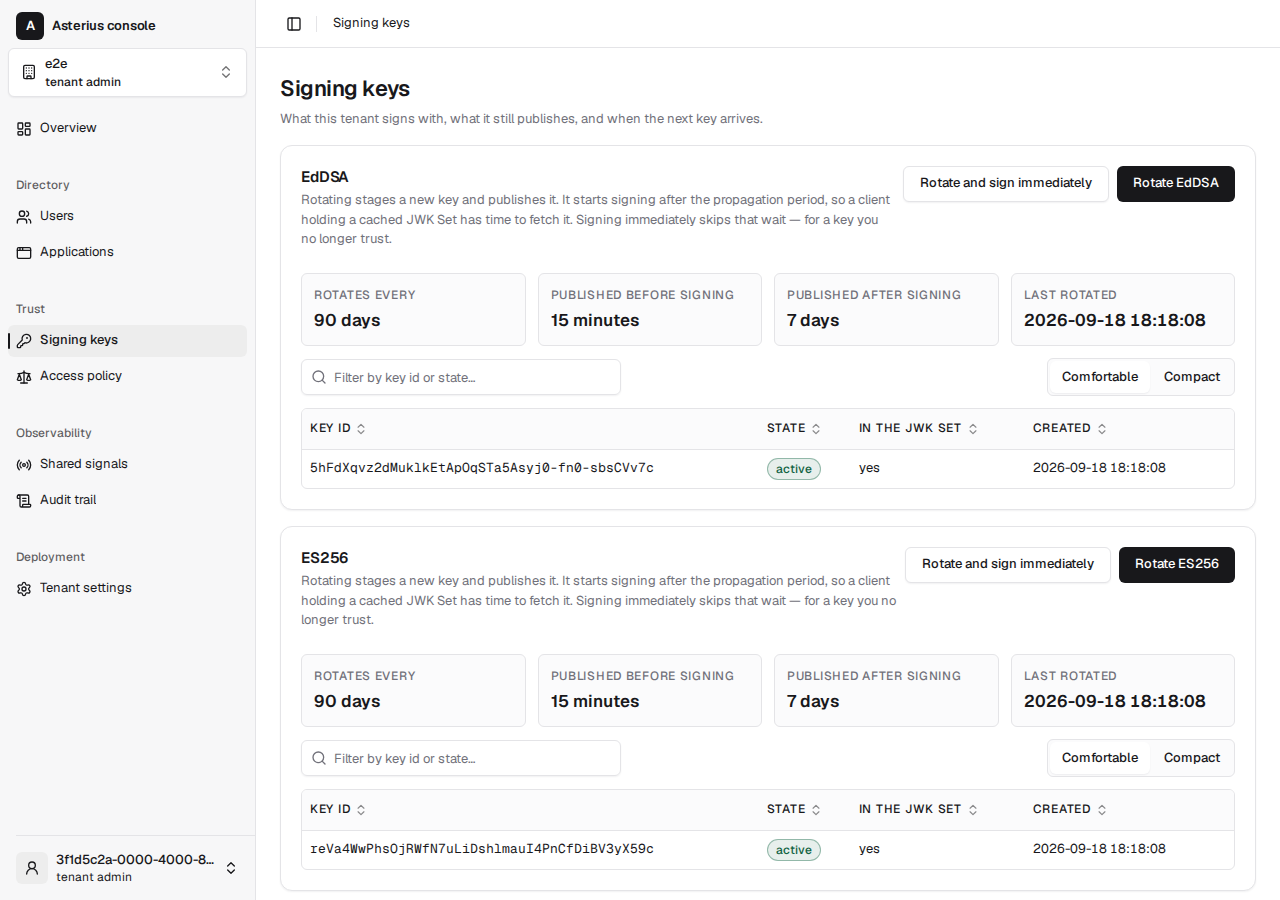
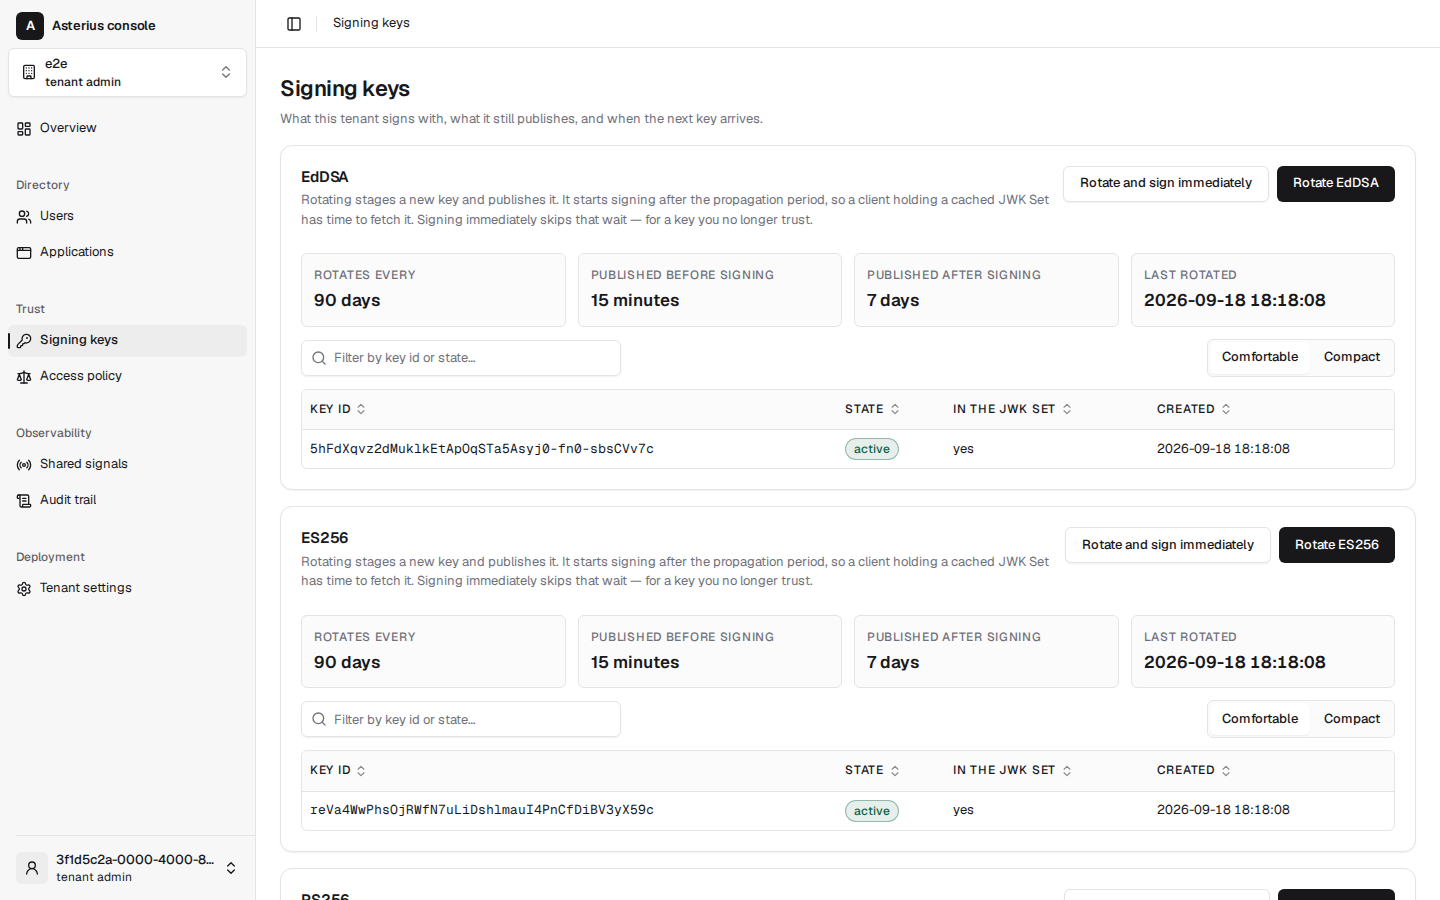
test(console): sweep assembled themes and layouts
Refs: ast-k7az.7

diff --git a/e2e/tests/console.spec.ts b/e2e/tests/console.spec.ts
@@ -243,6 +243,69 @@ test('the console screen has no accessibility violation', async ({ page }, testI
 });
 
 /**
+ * `ast-k7az.7`: the assembled console, rather than one representative screen.
+ *
+ * Individual tests below exercise each screen's behaviour. This matrix is the
+ * final visual guard: every destination is opened through the navigation and
+ * measured by axe after all of the redesign children have been assembled.
+ * Both palettes and both layout breakpoints matter because contrast and
+ * overflow defects can exist in only one member of that matrix.
+ */
+const ASSEMBLED_SCREENS = [
+  'Overview',
+  'Users',
+  'Applications',
+  'Signing keys',
+  'Shared signals',
+  'Audit trail',
+  'Access policy',
+  'Tenants',
+  'Tenant settings',
+] as const;
+
+for (const theme of ['light', 'dark'] as const) {
+  for (const width of [1440, 400] as const) {
+    test(`every screen passes axe in the ${theme} theme at ${width}px`, async ({ page }, testInfo) => {
+      test.setTimeout(120_000);
+      await page.setViewportSize({ width, height: 900 });
+      await page.addInitScript((selectedTheme) => {
+        window.localStorage.setItem('asterius.console.theme', selectedTheme);
+      }, theme);
+      await signInAsDeploymentAdmin(page);
+      await expect(page.locator('html')).toHaveClass(theme === 'dark' ? /dark/ : /^(?!.*dark)/);
+
+      const violations: { screen: string; violations: unknown[] }[] = [];
+      for (const screen of ASSEMBLED_SCREENS) {
+        if (screen !== 'Overview') {
+          if (width === 400) {
+            await page.getByRole('button', { name: 'Toggle Sidebar', exact: true }).click();
+          }
+          await page.getByRole('link', { name: screen, exact: true }).click();
+        }
+        await expect(page.getByRole('heading', { name: screen, exact: true }).first()).toBeVisible();
+        await page.waitForLoadState('networkidle');
+        expect(
+          await page.evaluate(() => document.documentElement.scrollWidth),
+          `${screen} widened the ${width}px viewport`,
+        ).toBeLessThanOrEqual(width);
+        const result = await new AxeBuilder({ page })
+          .withTags(['wcag2a', 'wcag2aa', 'wcag21a', 'wcag21aa'])
+          .analyze();
+        if (result.violations.length > 0) {
+          violations.push({ screen, violations: result.violations });
+        }
+      }
+
+      await testInfo.attach(`axe-${theme}-${width}`, {
+        body: JSON.stringify(violations, null, 2),
+        contentType: 'application/json',
+      });
+      expect(violations).toEqual([]);
+    });
+  }
+}
+
+/**
  * Walks the navigation to the tenant settings screen (`ast-bfn`).
  *
  * By its link and not by a fragment typed into the address bar: the criterion

diff --git a/e2e/tests/console-shots.spec.ts b/e2e/tests/console-shots.spec.ts
@@ -5,7 +5,8 @@
  * written to `docs/console/`, so that a redesign can be reviewed as what it is
  * — a change to what people see — rather than as a diff of class names. The
  * pair it produces is what the ticket asks for: the same eight screens before
- * the migration and after it, taken by the same browser at the same size.
+ * the migration and after it, taken by the same browser at the same size. Set
+ * `E2E_SHOTS_THEME=dark` for the matching dark-theme series.
  *
  * # Why it does not run with the sweep
  *
@@ -32,8 +33,19 @@ import { expect, test } from '@playwright/test';
 import { signIn, signInAsDeploymentAdmin } from '../src/console.js';
 
 const DIRECTORY = process.env.E2E_SHOTS;
+const THEME = process.env.E2E_SHOTS_THEME ?? 'light';
 
 test.skip(DIRECTORY === undefined, 'set E2E_SHOTS to a directory to take the pictures');
+
+if (THEME !== 'light' && THEME !== 'dark') {
+  throw new Error('E2E_SHOTS_THEME must be either light or dark');
+}
+
+async function prepareTheme(page: Parameters<typeof signIn>[0]): Promise<void> {
+  await page.addInitScript((theme) => {
+    window.localStorage.setItem('asterius.console.theme', theme);
+  }, THEME);
+}
 
 /** The screens, as the navigation names them, and the file each one gets. */
 const SCREENS: readonly (readonly [string, string])[] = [
@@ -48,10 +60,12 @@ const SCREENS: readonly (readonly [string, string])[] = [
 ];
 
 test('every console screen is photographed', async ({ page }) => {
-  // Arrange: one signed-in shell, at a tablet-and-up width.
-  await page.setViewportSize({ width: 1280, height: 900 });
+  // Arrange: one signed-in shell, at the desktop sweep width.
+  await page.setViewportSize({ width: 1440, height: 900 });
+  await prepareTheme(page);
   await signIn(page);
   await expect(page.getByRole('heading', { name: 'Asterius console' })).toBeVisible();
+  await expect(page.locator('html')).toHaveClass(THEME === 'dark' ? /dark/ : /^(?!.*dark)/);
 
   for (const [label, file] of SCREENS) {
     // Act: through the navigation, which is how an administrator gets there.
@@ -76,7 +90,8 @@ test('every console screen is photographed', async ({ page }) => {
  */
 test('the tenants screen is photographed as the deployment administrator', async ({ page }) => {
   // Arrange
-  await page.setViewportSize({ width: 1280, height: 900 });
+  await page.setViewportSize({ width: 1440, height: 900 });
+  await prepareTheme(page);
   await signInAsDeploymentAdmin(page);
 
   // Act

diff --git a/docs/console/README.md b/docs/console/README.md
@@ -21,8 +21,9 @@ whole thing is served under did not change, which took measuring — see
 [Under the policy](#under-the-policy).
 
 The pictures beside it are the same eight screens before the migration
-(`before/`) and after it (`after/`), taken by the same browser at 1280×900 by
-`e2e/tests/console-shots.spec.ts`. A ninth, `after/tenants.png`, has no
+(`before/`) and after it (`after/`), taken by the same browser at 1440×900 by
+`e2e/tests/console-shots.spec.ts`. The matching dark-theme series lives under
+`after/dark/`. A ninth, `after/tenants.png`, has no
 "before": the screen did not exist until `ast-l5bl`, and it is photographed as
 the deployment administrator because nobody else is shown the link.
 
@@ -95,6 +96,15 @@ Two deliberate differences from `style.css`:
   traps, roving tab indexes, `aria-*` wiring, dismiss semantics. That is the
   half `ConfirmDialog` had to get right by hand, and the half every dialog
   after it would have had to get right again.
+
+### Visible copy names the task, not the standard
+
+Standards citations belong in source comments and architecture records, where
+they help maintainers preserve the protocol. They do not appear in headings,
+labels, help text or errors shown to an operator. The embedded-bundle test
+`the_embedded_bundle_cites_no_specification_at_the_reader` scans the production
+JavaScript for the citation forms removed by `ast-k7az.4`; changing a visible
+sentence back to a protocol reference therefore fails before release.
 
 ## Tailwind, and where the colours come from
 
@@ -408,11 +418,20 @@ a registration that raises a toast *and* keeps the record.
 ```sh
 E2E_SHOTS=docs/console/after ./scripts/browser-tests.sh \
   --project=js tests/console-shots.spec.ts
+
+E2E_SHOTS=docs/console/after/dark E2E_SHOTS_THEME=dark \
+  ./scripts/browser-tests.sh --project=js tests/console-shots.spec.ts
 ```
 
 `E2E_SHOTS` is a directory relative to the repository root; without it the spec
 skips, because it asserts nothing and every console criterion is asserted by
 `e2e/tests/console.spec.ts`.
+
+The final assembled sweep opens all nine destinations at 1440px and 400px in
+both the light and dark themes. At every stop it checks that the document did
+not widen the viewport and runs the WCAG A/AA axe rules. That matrix is kept in
+the ordinary console spec so a later change cannot update the pictures while
+silently weakening the executable guard.
 
 ## Navigation and account menu (`ast-k7az.5`)
 
